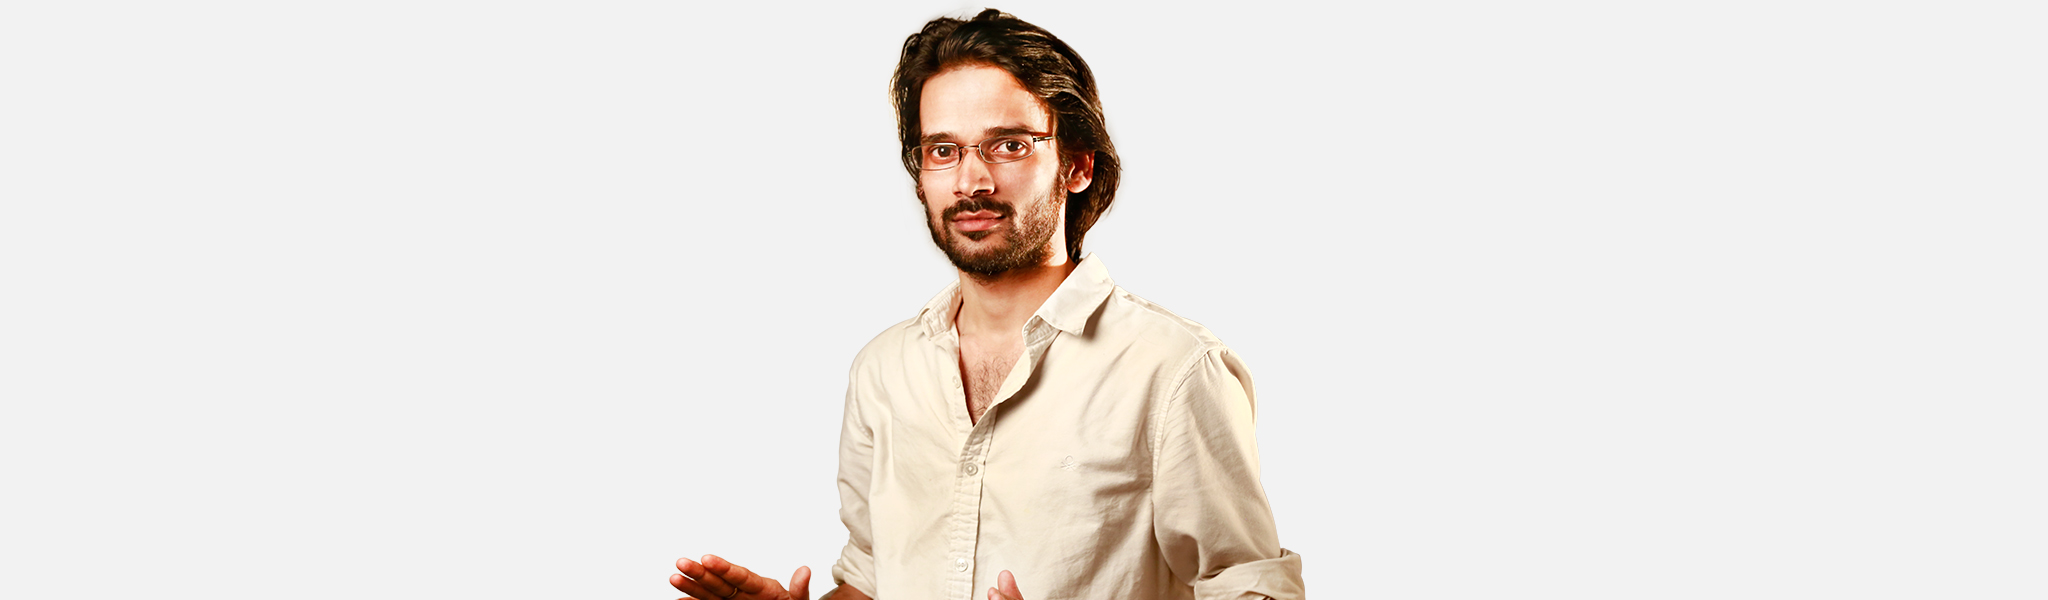
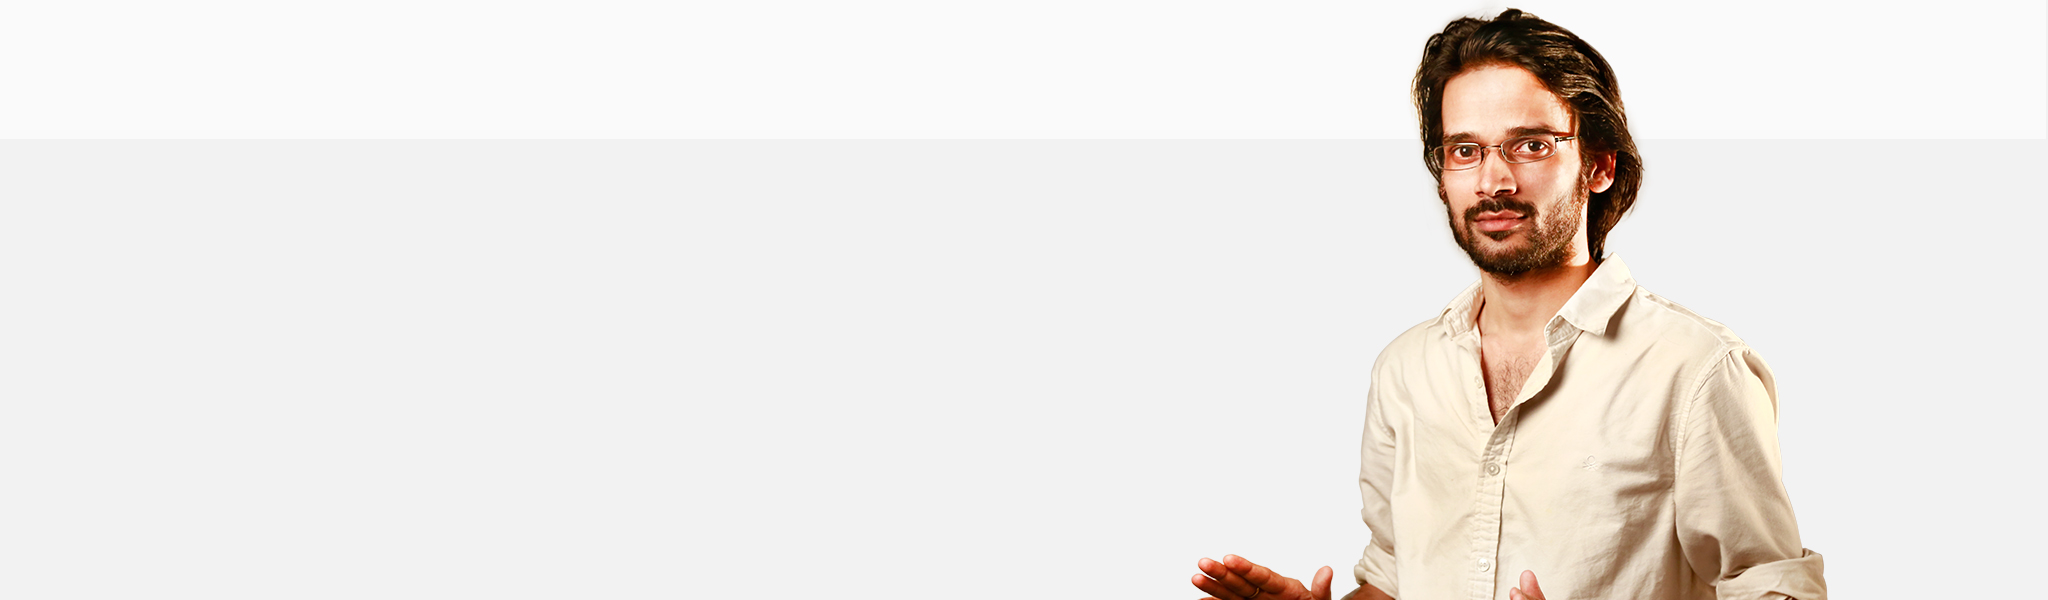
mindon2

Changed region(s): [[0.3125, 0.0, 0.9062, 1.0]]

diff --git a/about.html b/about.html
@@ -86,43 +86,47 @@
         <a href="#" class="scrollup">Scroll</a>
     </article>
   <!--contents -->
-  <div class="page-wrapper-blue">
-    <div class="j-top960"><img src="images/about.jpg"></div>
+    <div class="page-wrapper-blue">
+      <div class="j-top960">
+        <img src="images/about.jpg">
+      </div>
     </div>
 
     <div class="j-wrapper">
-        <div class="j-post960">
-            <img src="images/jaikishan_l.jpg">
-        </div>
         <div class="j-title">
-          <span>
-            <h2>Jaikishan Patel</h2>
-            <h4>जयकिशन पटेल </h4>
+        <span><br>
+            <div class="devider_light"></div>
+            <h6>follow on twitter</h6>
+            <h4> @jaikishan_patel <br> 
+            <div class="devider_light"></div>
+            <h6>Download</h6>
+            <h4> <a href="download/CV_2014_JaikishanPatel.pdf" target="_blank">Design Profile</a> 2015</h4>
           </span>
         </div>
 
         <div class="j-post">
           <span>
-            <p>Communication Designer</p>
-            <p class="semibold">Loves to Observe, Experience & Design. Focused in Communication Design, believing if there is honest communication, Life can be understood very easily.</p>
+            <h2><br>Jaikishan Patel</h2>
+            <h4>जयकिशन पटेल </h4>
+          </span>
+          <span>
+            <h5>Communication Designer</h5>
+            <p class="semibold">Loves to Observe, Experience & Design. Focused in Communication Design, believing if there is an honest communication, Life can be understood very easily.</p>
 
-            <p>Loves to observe how various communication happens around. Respects the value addition and attention to details. Highly concerned about the brand language and it’s behavior.</p>
-
-            <p>Born and brought up at Raigarh in the region of Chhattisgarh INDIA. Graduated from the department of communication design at D J Academy of Design, Coimbatore in 2011. After a short experience of 2 years working in Design industry, did masters in visual communication at Industrial Design Centre, IIT-Bombay, Mumbai. </p>
+            <p>Loves to observe how various communication happens around. Respects the value addition and attention to details. Highly concerned about the brand language and its behavior.
+Born and brought up at Raigarh in the region of Chhattisgarh INDIA. Graduated from the department of communication design at D J Academy of Design, Coimbatore. Did post graduation in visual communication at Industrial Design Centre, IIT-Bombay, Mumbai.
+</p>
           </span>        
         </div>  
 
         
-        <div class="j-title">
-          <span>
-          </span>
-        </div>
+        <div class="j-title"><span></span></div>
         <div class="j-post">
-          <span>
-            <div class="devider_light"></div>
-            <h5>follow on twitter @jaikishan_patel . Download <a href="download/CV_2014_JaikishanPatel.pdf" target="_blank">Design Profile</a></h5>
-          </span>
-        </div>         
+          <span></span>
+        </div> 
+        <div class="j-post960">
+            <img src="images/jaikishan_l.jpg">
+        </div>        
     </div>
     <div class="clearcolumn"></div><br><br>
     <!--contents ends -->
@@ -131,6 +135,9 @@
     <div class="foot">
       <div class="foot-wrapper">
         
+        <!--Devider Black -->
+              <div class="devider_black"></div>
+
         <!--Social starts -->
               <div id="footmenu2">
                   <span>Stay Connected with Social Media<br></span>

diff --git a/css/jaiki01.css b/css/jaiki01.css
@@ -14,7 +14,7 @@
 
 /* line devider */
 	.devider 		{clear: both; width:auto; height: 80px; margin: 60px 0 60px 0;border-bottom: rgba(50,50,50,0.2) 2px solid;}
-	.devider_light 	{clear: both; width:auto; height: 00px; margin: 10px 0 30px 0;border-bottom: rgba(50,50,50,0.1) 2px solid;  }
+	.devider_light 	{clear: both; width:auto; height: 10px; margin: 10px 0 30px 0;border-bottom: rgba(50,50,50,0.1) 2px solid;  }
 	.devider_black 	{clear: both; width:auto; height: 00px; margin: 30px 0 30px 0;border-top: rgba(50,50,50,0.9) 5px solid;background-color: rgba(50,50,50,0.0); border-bottom: rgba(50,50,50,0.0) 5px solid;  }
 	@media (max-width: 960px) 
 	{
@@ -130,7 +130,7 @@
 	.page-wrapper{background-color: #fafafa; }
 	.page-wrapper-gray{background-color: #f2f2f2; padding-bottom: 80px;margin-bottom: 60px;}
 	.page-wrapper-black{background-color: #000;}
-	.page-wrapper-blue{background-color: #09c;}
+	.page-wrapper-blue{background-color: #f2f2f2;}
 	/* background for 2nd menu header */
 	.j-top2{width:100%; padding: 0px 0px 40px 0px; margin-bottom:0px; height:auto; position:relative; float:center; overflow:hidden;background-color: #f2f2f2;}
 
@@ -148,7 +148,7 @@
 
 		.j-title 		{width:220px;position:relative; float: left; margin: 20px 40px 00px 00px; text-align: left; clear:both;}
 		.j-title span 	{width:auto; position:relative; float: left; margin: 00px 00px 00px 00px;}	
-		.j-title img 	{width:100%; position:relative; float: left; margin: 20px 00px 20px 00px;}
+		.j-title img 	{width:100%; position:relative; float: left; margin: 10px 00px 20px 00px;}
 
 		.j-post 		{width:700px;position:relative; float: left; margin: 20px 00px 00px 00px; text-align: left;}
 		.j-post span 	{width:100%; position:relative; float: left; margin: 00px 00px 20px 00px;}
@@ -157,6 +157,10 @@
 		.j-post960 		{width:960px;position:relative; float: left; margin: 20px 00px 00px 00px; text-align: center;}
 		.j-post960 span {width:100%; position:relative; float: left; margin: 20px 00px 20px 00px;}
 		.j-post960 img 	{width:100%; position:relative; float: left; margin: 02px 00px 00px 00px;}
+
+		.j-post700 		{width:70%;position:relative; float: left; margin: 20px 00px 00px 00px; text-align: center; padding: 0 15% 0 15%;}
+		.j-post700 span {width:100%; position:relative; float: left; margin: 20px 00px 20px 00px;}
+		.j-post700 img 	{width:100%; position:relative; float: left; margin: 02px 00px 00px 00px;}
 
 		.j-video		{position: relative;}
 		.j-video iframe	{position: absolute; float:left;width: 100%;height: 100%;}

diff --git a/index.html b/index.html
@@ -70,17 +70,7 @@
             <p class="browserupgrade">You are using an <strong>outdated</strong> browser. Please <a href="http://browsehappy.com/">upgrade your browser</a> to improve your experience.</p>
         <![endif]-->
     <center>
-    <!-- GOOGLE AD starts -->
-            <script async src="//pagead2.googlesyndication.com/pagead/js/adsbygoogle.js"></script>
-            <!-- J_Ad01 -->
-            <ins class="adsbygoogle"
-                 style="display:block"
-                 data-ad-client="ca-pub-1903236674692737"
-                 data-ad-slot="7383545604"
-                 data-ad-format="auto"></ins>
-            <script>
-            (adsbygoogle = window.adsbygoogle || []).push({});
-            </script><!-- GOOGLE AD ends -->
+    
 
   <!--fixbar starts-->
     <div id="fixbar" style="opacity:1;">
@@ -107,6 +97,9 @@
     </article>
   <!--contents -->
   <div class="j-top"></div>
+    <div class="page-wrapper-blue">
+      <div class="j-top960"><img src="images/home.jpg"></div>
+    </div>
   <div class="page-wrapper-gray"><!--page background--> 
       <div class="j-wrapper">
       <!--HOME POST featured one starts -->
@@ -216,6 +209,20 @@
                   <li><a href="contact.html"><span>Contact</span></a></li>
               </ul>
           </div><!--Additional links ends -->
+
+      <!-- GOOGLE AD starts -->
+            <script async src="//pagead2.googlesyndication.com/pagead/js/adsbygoogle.js"></script>
+            <!-- J_Ad01 -->
+            <ins class="adsbygoogle"
+                 style="display:block"
+                 data-ad-client="ca-pub-1903236674692737"
+                 data-ad-slot="7383545604"
+                 data-ad-format="auto"></ins>
+            <script>
+            (adsbygoogle = window.adsbygoogle || []).push({});
+            </script><!-- GOOGLE AD ends -->
+
+
       <div class="clearcolumn"></div>
       </div><!--j-wrapper ends --> 
 

diff --git a/p_mrm.html b/p_mrm.html
@@ -121,12 +121,14 @@
   </div><!--page wrapper gray ends-->
 
     <div class="j-wrapper">
-        <div class="j-post960">
+        <div class="j-post700">
             <span>
               <h2>Design of the Mumbai Suburban Rail Map</h2>
               <h5>मुंबई रेल नक्शा .  ممبئی ریل کا نقشہ . मुंबई रेल नकाशा . મુંબઈ રેલ નક્શો<br><br></h5>
               <p class="medium">Since the first Mumbai Rail Map launch in December 2013, the project has grown due to the perseverance of a motivated team, and the encouragement and feedback from the people of Mumbai. After completing the Version 5 of the Mumbai Rail map, it was tested at Dadar and CST Railways stations with commuters. The current version 6 of the print map included many of the Insights from the user feedback. <br><br> The latest version 6 of the MRM are available in <a href="download/v6_mrm_hindi.jpg" target="_blank">Hindi</a>, <a href="download/v6_mrm_marathi.jpg" target="_blank">Marathi</a>, Gujarati, Urdu & <a href="download/v6_mrm_english.jpg" target="_blank">English</a> languages</p>
           </span>
+        </div>
+        <div class="j-post960">
             <img src="images/projects/mrm01.jpg" alt="image01"/>
         </div>
           
